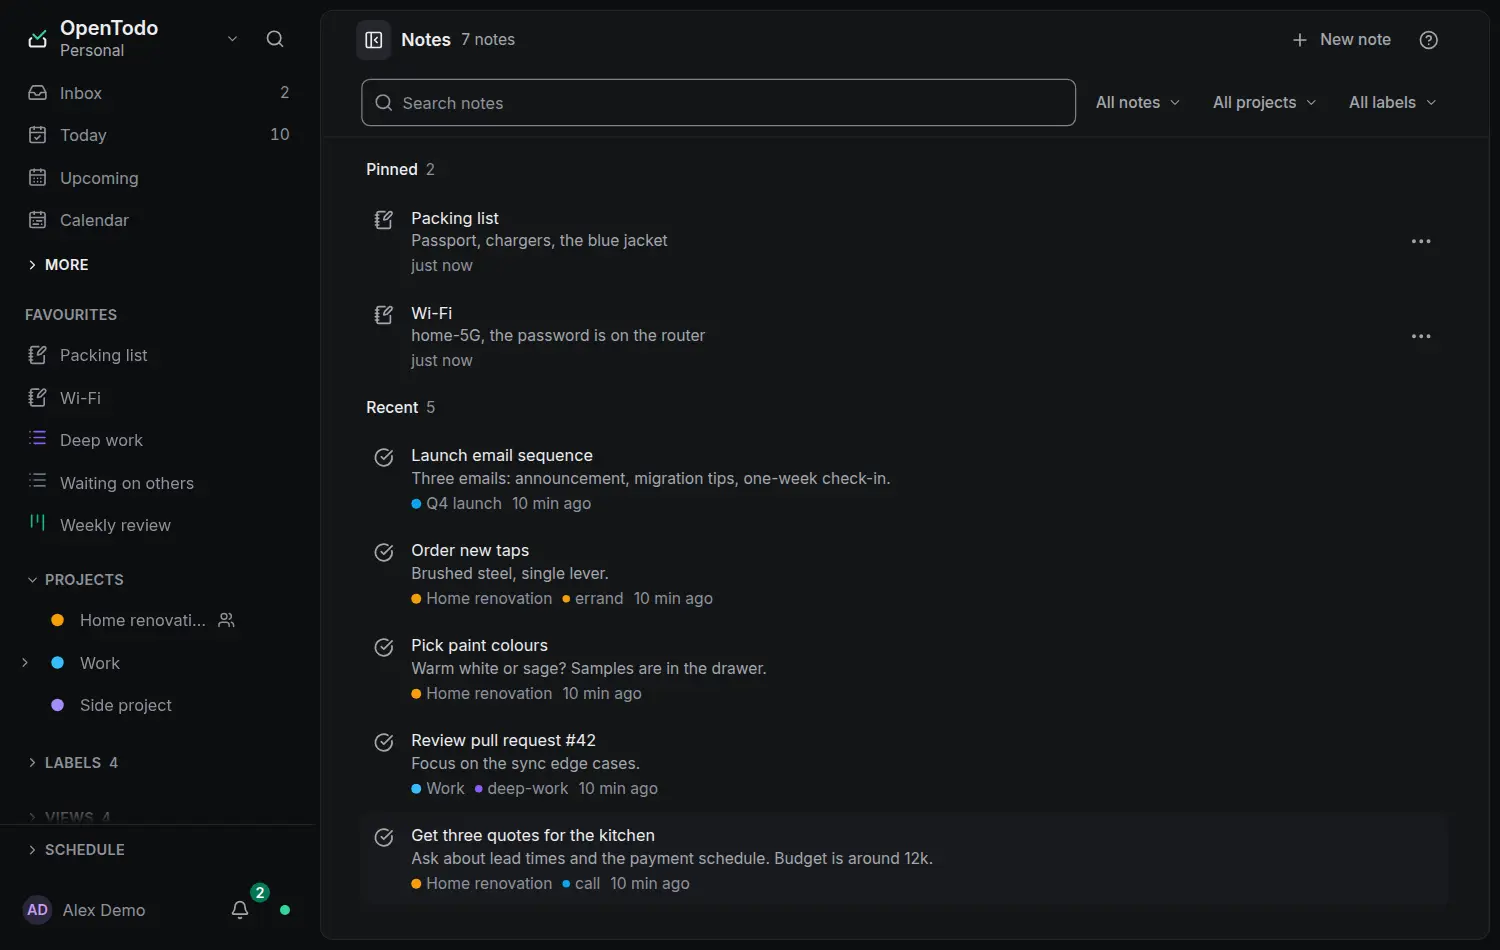
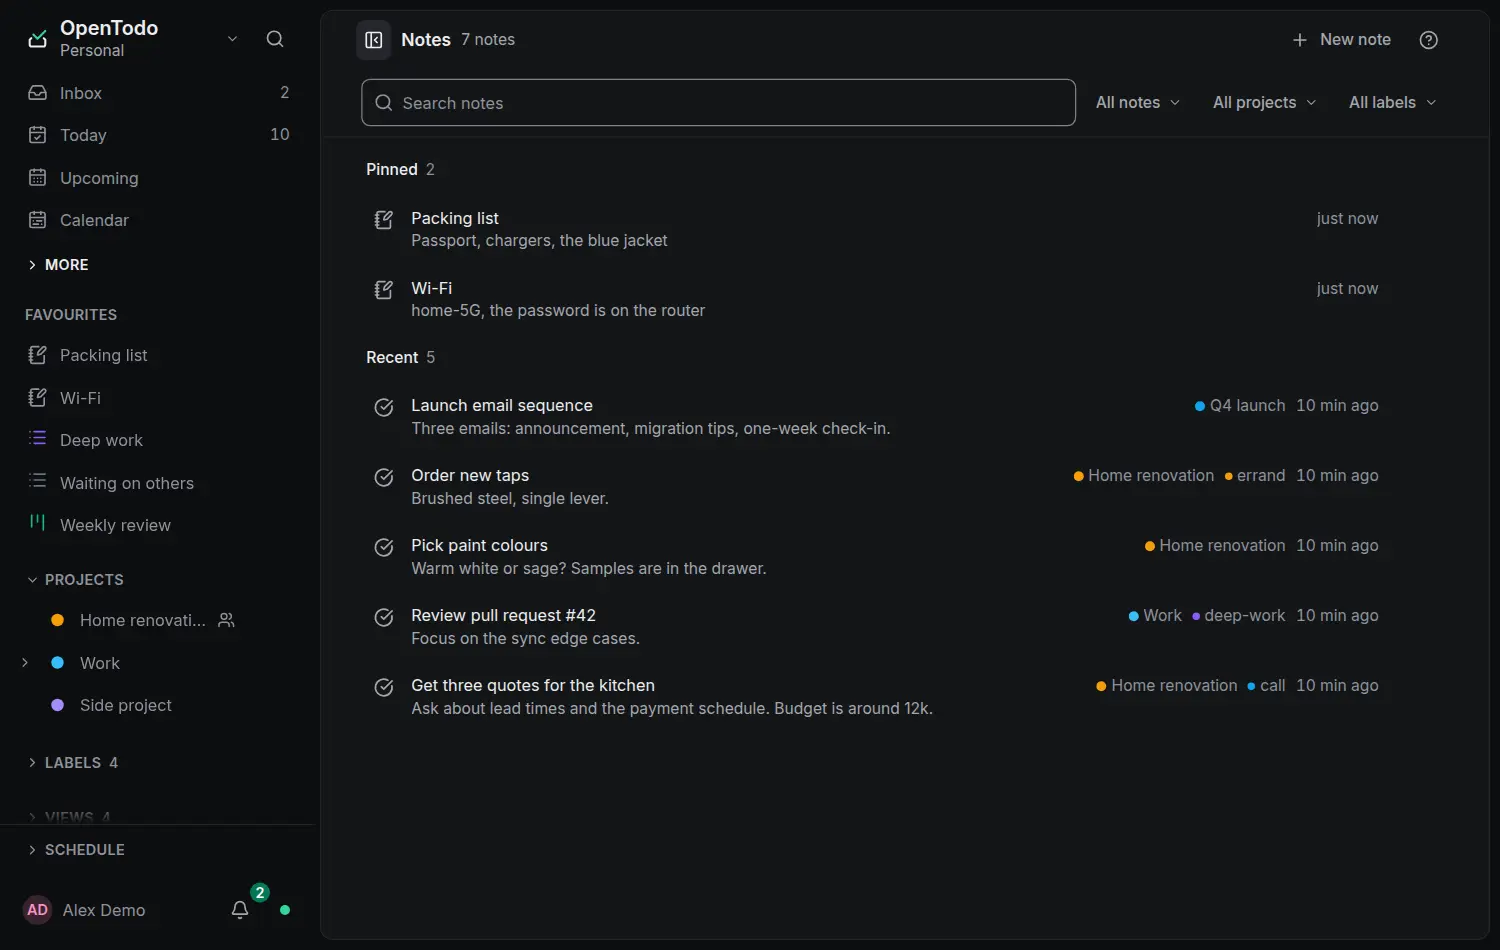
Notes home: times line up across rows; docs screenshots with the two-line rows (notes-home review)
Claude-Session: https://claude.ai/code/session_01Bkw4TZLFDGeMdZR3vWZF13

diff --git a/web/src/app/notes/NoteRow.tsx b/web/src/app/notes/NoteRow.tsx
@@ -90,7 +90,7 @@ export function NoteRow({ entry, snippet, project, labels, updated, current, cur
           {/* Line 1: the title, then (right-aligned, faint) the project, labels and when it changed; line 2: the text. */}
           <span className="flex min-w-0 items-baseline gap-3">
             <span className={`user-text min-w-0 flex-1 truncate text-body ${entry.title.trim() ? 'text-default' : 'text-muted'}`} data-note-title>{title}</span>
-            <span className="flex min-w-0 max-w-[55%] shrink items-center justify-end gap-x-2 overflow-hidden text-meta whitespace-nowrap text-faint" data-note-meta>
+            <span className="flex min-w-0 max-w-[45%] shrink items-center justify-end gap-x-2 overflow-hidden text-meta whitespace-nowrap text-faint" data-note-meta>
               {project && entry.source !== 'project' && (
                 <span className="inline-flex min-w-0 items-center gap-1"><span aria-hidden className="h-2 w-2 shrink-0 rounded-full" style={{ backgroundColor: project.color }} /><span className="truncate">{project.name}</span></span>
               )}
@@ -107,7 +107,8 @@ export function NoteRow({ entry, snippet, project, labels, updated, current, cur
         </span>
       </button>
       {/* Revealed on hover or focus with a mouse, always shown on touch (.hover-reveal). */}
-      {menu && <div className="hover-reveal shrink-0 self-center pr-1">{menu}</div>}
+      {/* The slot is kept on rows without a menu too, so every row's time lines up. */}
+      {menu ? <div className="hover-reveal flex w-11 shrink-0 justify-end self-center pr-1">{menu}</div> : <div aria-hidden className="w-11 shrink-0" />}
     </li>
   )
 }
